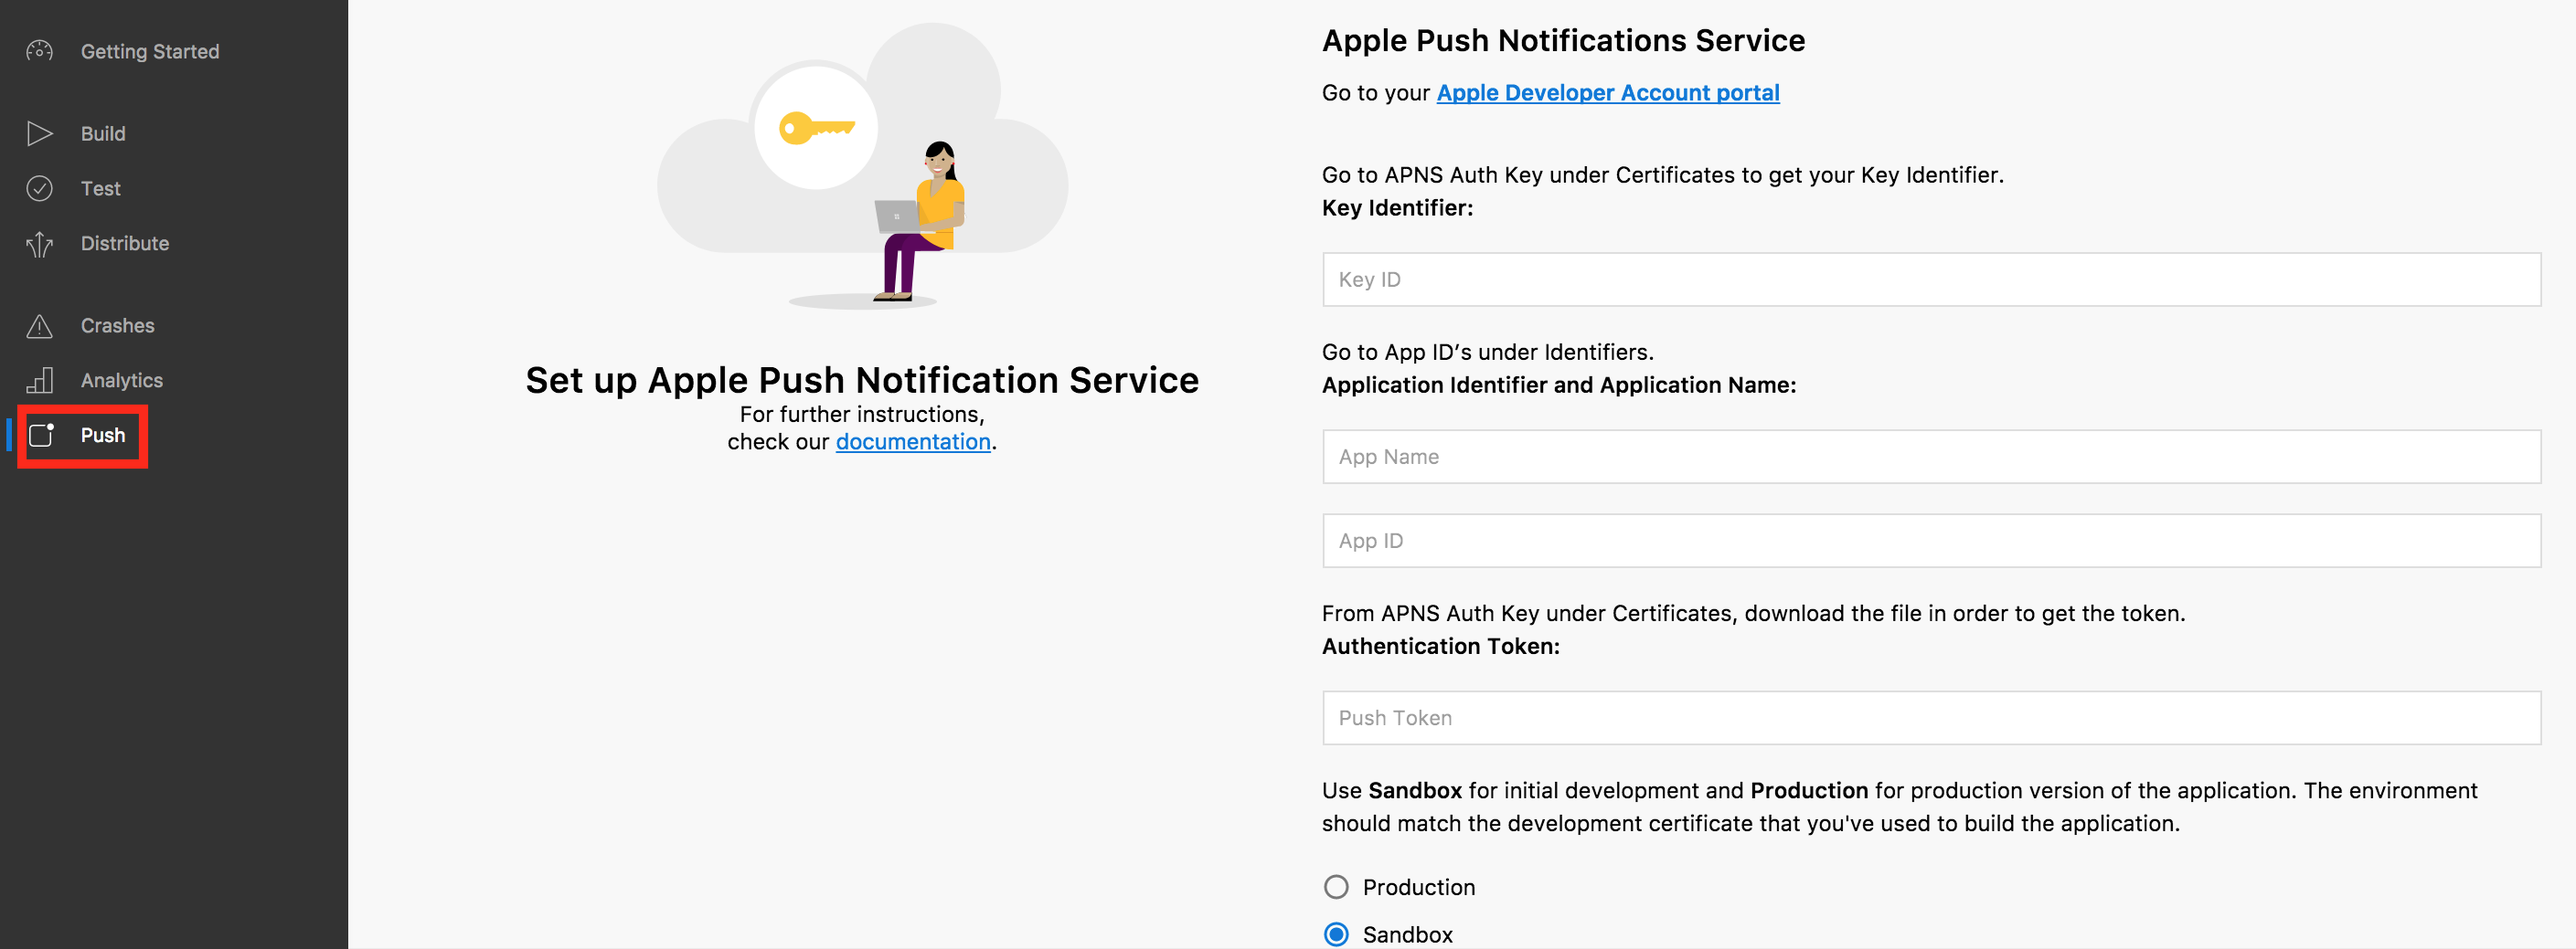
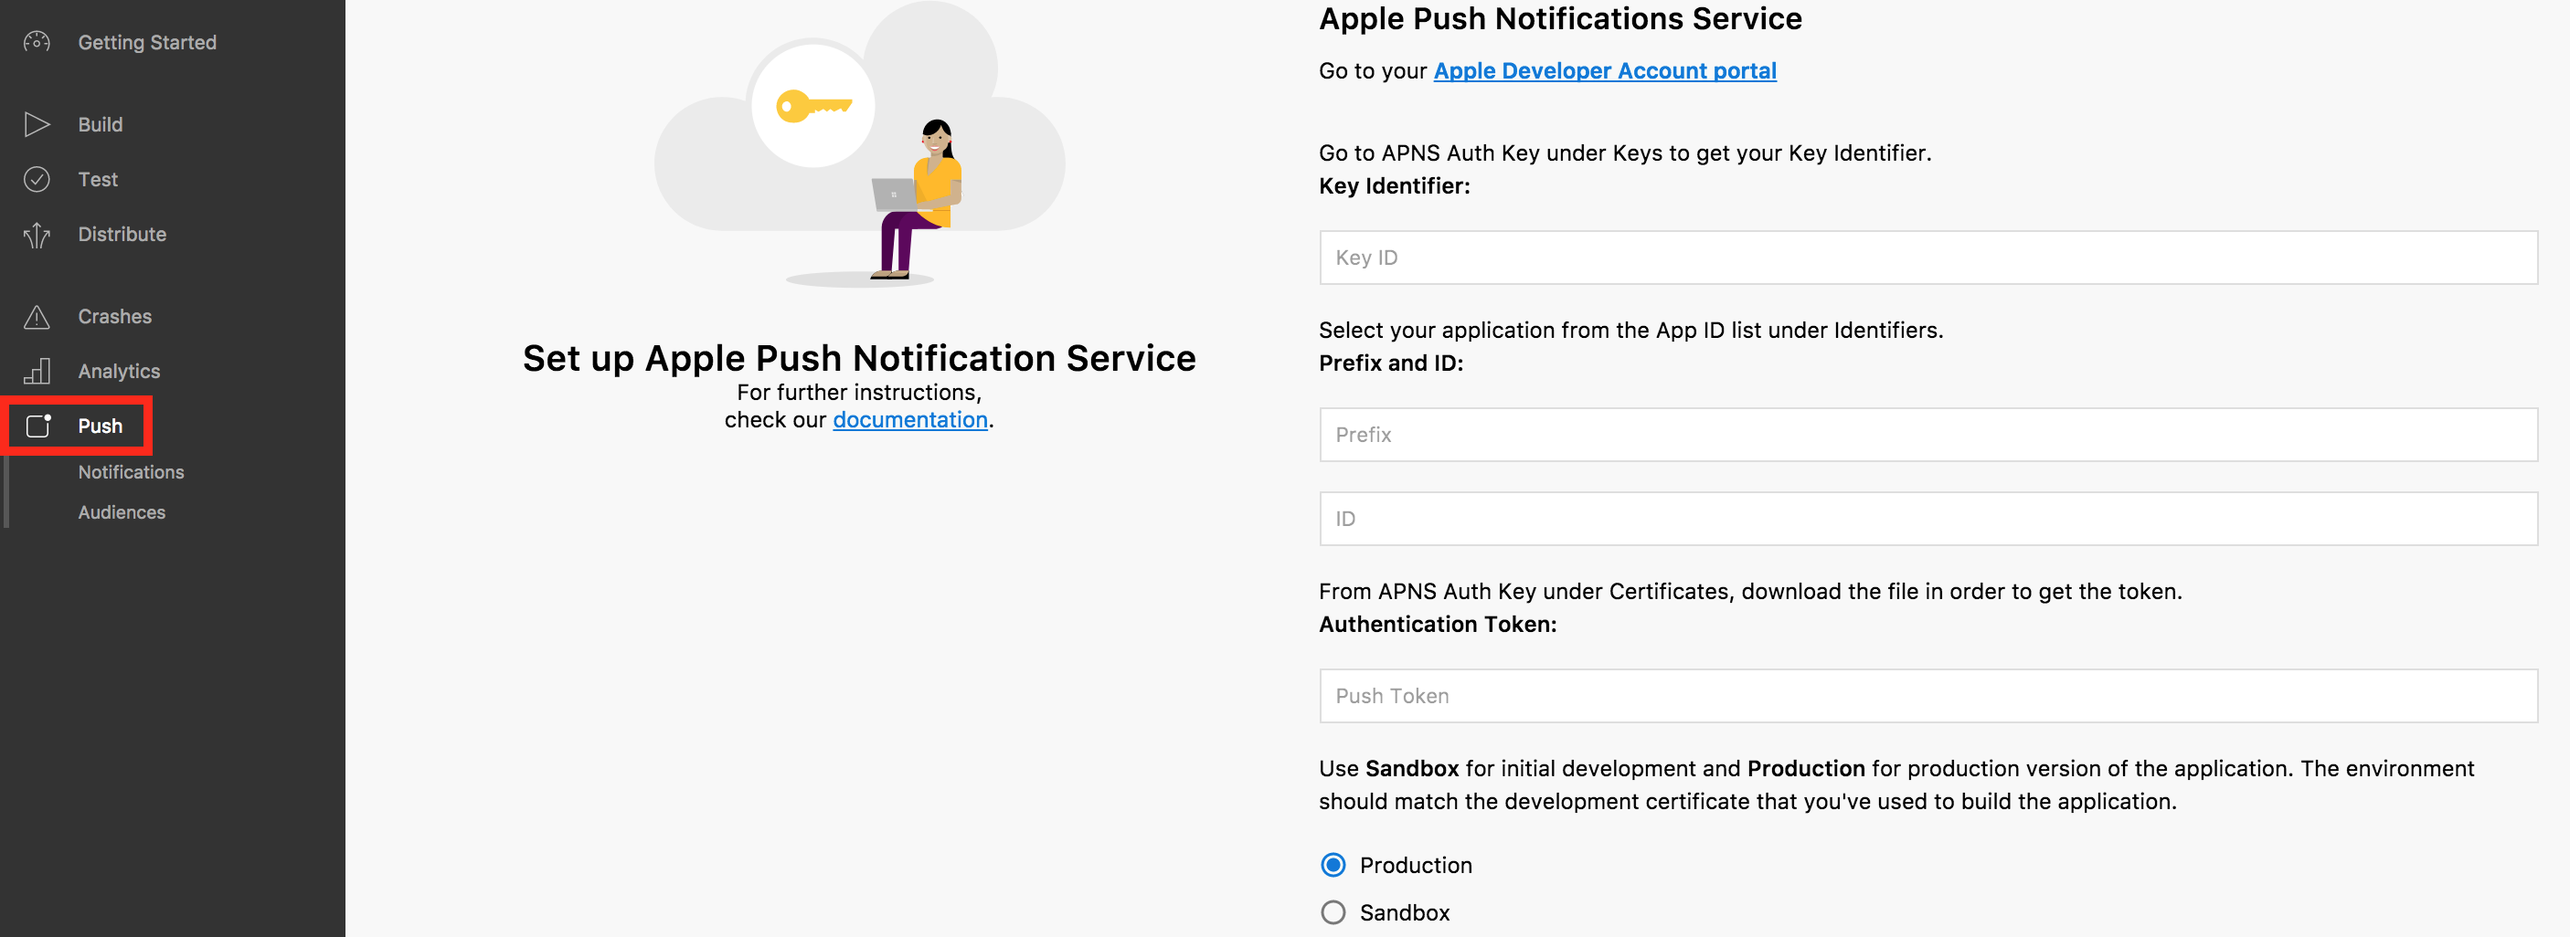
Update APNs setup doc to reflect portal changes

diff --git a/vs-mobile-center-docs/sdk/push/apns-setup.md b/vs-mobile-center-docs/sdk/push/apns-setup.md
@@ -4,9 +4,9 @@
 
     ![mobile-center-push-settings](images/ios-push-settings-mc-portal.png)
 
-    On the bottom of the page, select **Sandbox** for initial development or **Production** for production version of your application. You will collect the **Key ID**, **App Name**, **App ID** and **Push Token** in the next steps.
+    On the bottom of the page, select **Sandbox** for initial development or **Production** for production version of your application. You will collect the **Key ID**, **Prefix**, **ID** and **Push Token** in the next steps.
 
-2. Go to your Apple developer account and select your application from the [App ID list](https://developer.apple.com/account/ios/identifier/bundle) in **Identifiers**. Copy the **Prefix** value from this window and paste it to the Mobile Center push settings **App ID** field. Do the same with the **ID** value to be copied to the Mobile Center push settings **App Name** field.
+2. Go to your Apple developer account and select your application from the [App ID list](https://developer.apple.com/account/ios/identifier/bundle) in **Identifiers**. Copy the **Prefix** value from this window and paste it to the Mobile Center push settings. Do the same with the **ID** value.
 
     ![apple-dev-center-app-id](images/ios-app-id-apple-portal.png)
 
@@ -14,7 +14,7 @@
 
     ![apple-dev-center-new-auth-key](images/ios-new-auth-key-apple-portal.png)
 
-    On the next screen, copy the **Key ID** value and paste it to the Mobile Center push settings **Key ID** field. Download the key file.
+    On the next screen, copy the **Key ID** value and paste it to the Mobile Center push settings. Download the key file.
 
     ![apple-dev-center-confirm-auth-key](images/ios-confirm-auth-key-apple-portal.png)
 
@@ -22,4 +22,4 @@
 
     ![auth-key-file](images/ios-auth-key-file.png)
 
-    On the Mobile Center push settings, paste this token to the **Authentication Token** field then click **Done** to complete this configuration.
+    On the Mobile Center push settings, paste this token to the **Push Token** field then click **Done** to complete this configuration.
